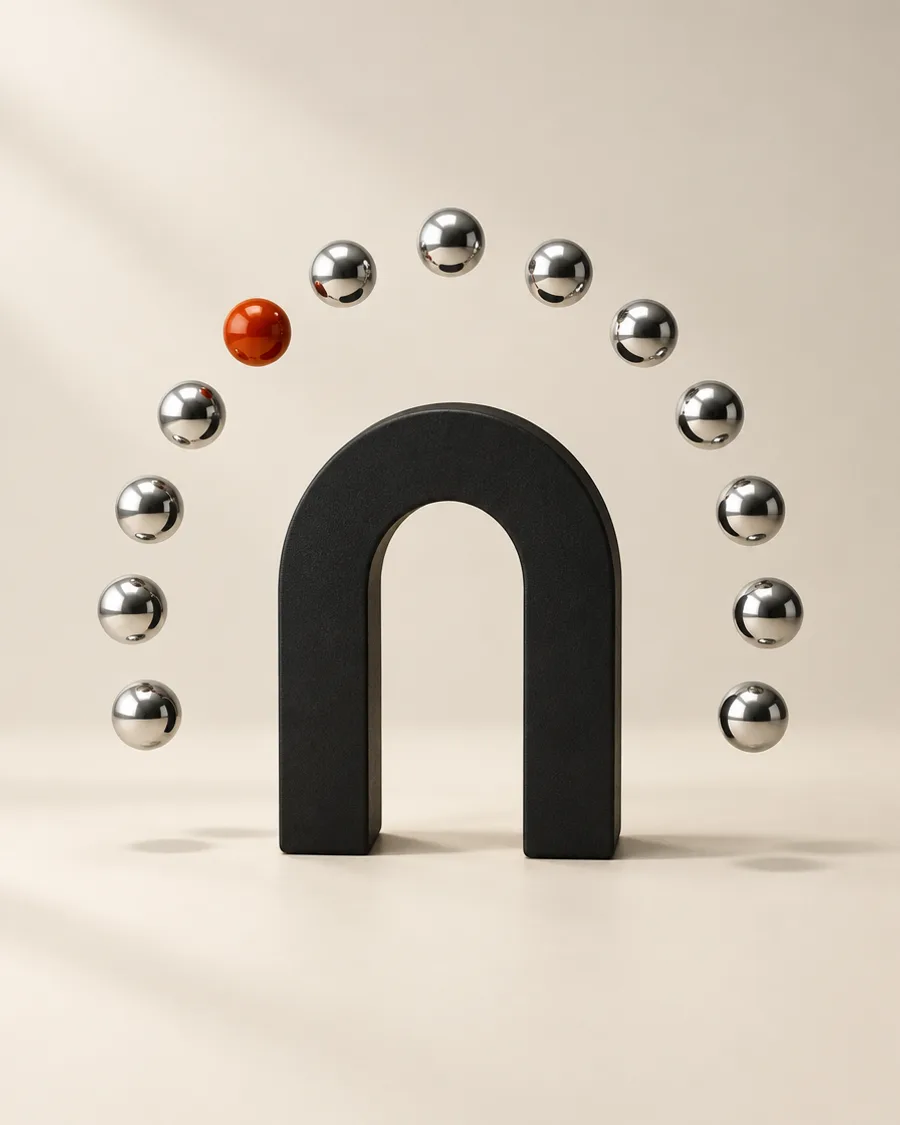
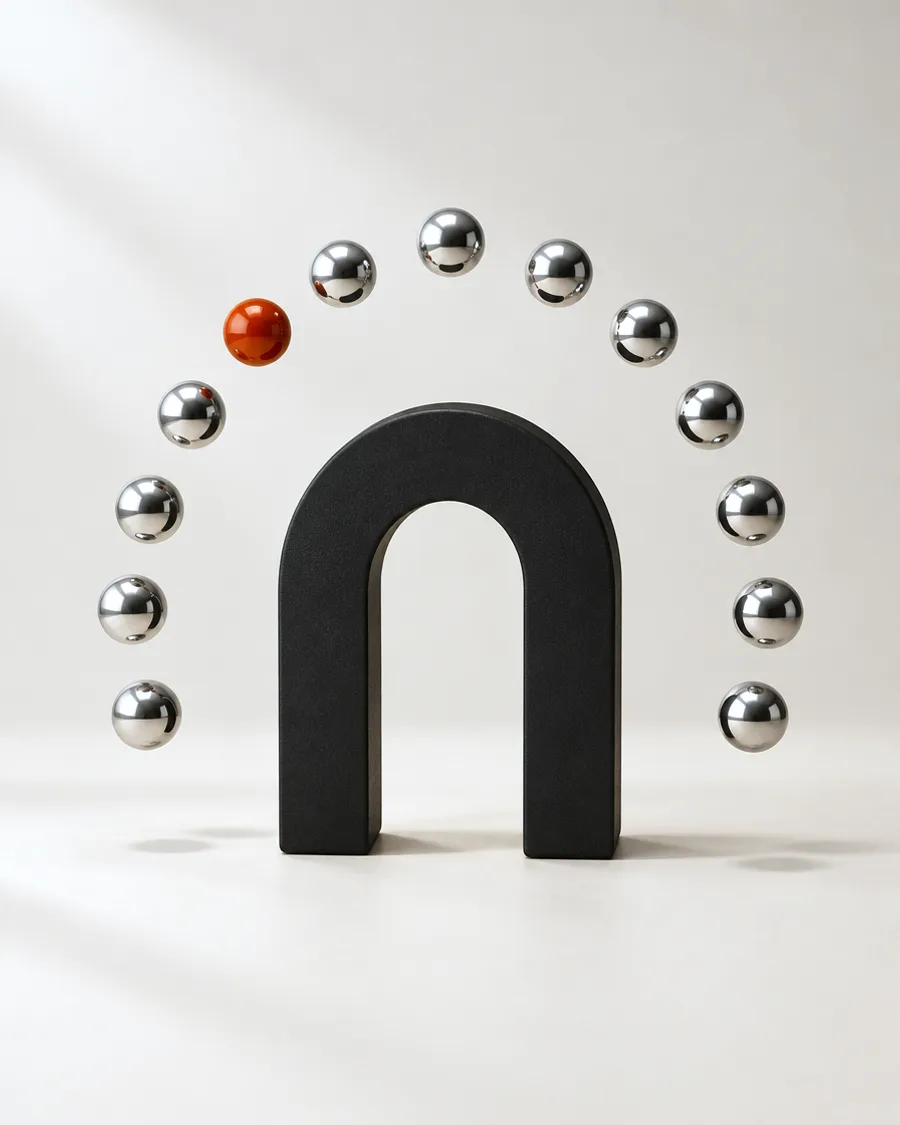
Recolor /b2b to a cool neutral palette, switch to a single grotesk
The warm cream base (#f2efe7) read as yellow rather than premium. Three
things were feeding it: the cream token itself, the grain overlay's
multiply blend, and the body's vermilion radial gradients. All three are
now overridden inside .page-b2b only — assets/elvora.css and the other
37 pages are untouched.

Palette: paper #f6f5f2, card #ffffff, ink #0d1117, muted #6a7280,
line #e5e4e0; dark sections move off the warm #14130f to a cool
#0d1117. Vermilion stays as the single accent, so the only warmth on
the page is deliberate.

Type drops from three families to one grotesk (Schibsted Grotesk),
headings at 600 with the reference's tight tracking. The wordmark keeps
Instrument Serif — it is the logotype and should match the rest of the
site. The italic accent becomes upright; colour alone carries it.

The four visuals were warm-cast too, so they were re-derived from the
originals with a per-channel correction that neutralises the backdrop
(R-B 13-26 down to 3-4, matching the new paper) and leaves the
vermilion ball intact. Regenerating them was not possible — the daily
image limit rejected 3 of 4 — but colour correction preserves the
compositions anyway.

Tabular figures are now limited to the sector count column; in display
headings they gave the period a full digit width ("1 . 500+").

The header logo now points at ./ instead of the main site, so it
returns to the top of this landing page rather than leaving it.

diff --git a/b2b/b2b.css b/b2b/b2b.css
@@ -9,6 +9,34 @@
    ============================================================ */
 
 .page-b2b {
+  /* ---------- Palet: soğuk nötr kâğıt ----------
+     Elvora'nın #f2efe7 kremi (R242 G239 B231) sarıya kaçıyordu; üstüne
+     grain'in multiply katmanı ve gövdedeki vermilion radial gradyanlar
+     binince sayfa geneli sarardı. Token'lar YALNIZ bu sayfada yeniden
+     tanımlanıyor — assets/elvora.css'e ve sitenin geri kalanına
+     dokunulmuyor. Vurgu vermilion olarak kalıyor: sıcaklık artık
+     zeminden değil, tek bir noktadan geliyor. */
+  --ink-base: #f6f5f2;
+  --ink-elevated: #ffffff;
+  --ink-floating: #ffffff;
+  --bone: #0d1117;
+  --bone-dim: #6a7280;
+  --bone-faint: #98a0ab;
+  --bone-hair: #e5e4e0;
+  --vermilion-wash: rgba(232, 68, 46, 0.09);
+
+  /* ---------- Tipografi: tek grotesk aile ----------
+     Instrument Serif + Archivo + IBM Plex Mono üçlüsü bu sayfada tek
+     bir grotesk'e iniyor. Wordmark (logotype) serif kalıyor — o marka
+     işareti, sitenin geri kalanıyla aynı görünmeli. */
+  --font-sans: 'Schibsted Grotesk', ui-sans-serif, system-ui, -apple-system, 'Helvetica Neue', Arial, sans-serif;
+  --font-display: var(--font-sans);
+  --font-mono: var(--font-sans);
+
+  /* Sıcak dokuları kapat */
+  --grain-opacity: 0;
+  --grid-line: rgba(13, 17, 23, 0.045);
+
   /* Referans container 1180px; Elvora'nın varsayılanı 1320px. */
   --measure: 1180px;
   /* Referansın köşe skalası (Elvora'nın 8px'lik --radius-card'ı
@@ -22,13 +50,43 @@
 
   background: var(--ink-base);
   background-image: none;
+  letter-spacing: -0.005em;
 }
 @media (min-width: 768px) {
   .page-b2b { --sec-pad: 128px; }
 }
 
+/* Koyu bölümler de soğuk siyaha döner (elvora.css'teki sıcak
+   #14130f/#1c1b17 yerine). Specificity elvora.css'teki .tone-dark'ı
+   geçiyor, o yüzden bu sayfadaki her koyu blok buradan besleniyor. */
+.page-b2b .tone-dark {
+  --ink-base: #0d1117;
+  --ink-elevated: #161b22;
+  --ink-floating: #1c222b;
+  --bone: #f6f5f2;
+  --bone-dim: rgba(246, 245, 242, 0.64);
+  --bone-faint: rgba(246, 245, 242, 0.42);
+  --bone-hair: rgba(246, 245, 242, 0.13);
+  --grain-opacity: 0;
+  --grid-line: rgba(246, 245, 242, 0.04);
+}
+
+/* Logotype: sayfanın grotesk'ine kapılmasın. */
+.page-b2b .wordmark {
+  font-family: 'Instrument Serif', 'Times New Roman', serif;
+  font-weight: 400;
+}
+
+/* Grotesk'te italik vurgu ucuz duruyor — vurgu artık yalnız renkle. */
+.page-b2b .accent-italic { font-style: normal; }
+
+/* Tabular rakam yalnız alt alta hizalanan sütunda işe yarıyor. Display
+   başlıklarında ("1.500+", "4. hafta") noktaya da tam rakam genişliği
+   verip araları açıyordu — oralarda oransal rakam kalıyor. */
+.ix-sectors__count { font-variant-numeric: tabular-nums; }
+
 /* Sayfa açık temalı: yükleme anında koyu zemin çakmasın. */
-html.b2b { background: #f2efe7; }
+html.b2b { background: #f6f5f2; }
 
 /* ---------- Bölüm kabukları ---------- */
 .ix-section {
@@ -72,9 +130,9 @@ html.b2b { background: #f2efe7; }
 .ix-h2 {
   margin-top: 20px;
   font-family: var(--font-display);
-  font-weight: 400;
+  font-weight: 600;
   font-size: clamp(1.9rem, 4vw, 2.85rem);
-  line-height: 1.06;
+  line-height: 1.08;
   letter-spacing: -0.032em;
   text-wrap: balance;
 }
@@ -169,7 +227,7 @@ html.b2b { background: #f2efe7; }
 .ix-frame--hero { aspect-ratio: 4 / 5; }
 .ix-frame--square { aspect-ratio: 1 / 1; }
 .ix-frame img { display: block; width: 100%; height: 100%; object-fit: cover; }
-.tone-dark .ix-frame { border-color: rgba(242, 239, 231, 0.1); background: #1b1914; }
+.tone-dark .ix-frame { border-color: rgba(246, 245, 242, 0.1); background: #161b22; }
 
 /* Hero çerçevesinin sol altından taşan küçük kart */
 .ix-float {
@@ -181,7 +239,7 @@ html.b2b { background: #f2efe7; }
   border: 1px solid var(--bone-hair);
   border-radius: var(--r-sm);
   background: var(--ink-elevated);
-  box-shadow: 0 18px 44px -24px rgba(20, 19, 15, 0.35);
+  box-shadow: 0 18px 44px -24px rgba(13, 17, 23, 0.32);
 }
 @media (min-width: 640px) { .ix-float { left: -32px; } }
 .ix-float__label {
@@ -196,6 +254,7 @@ html.b2b { background: #f2efe7; }
   margin-top: 6px;
   font-family: var(--font-display);
   font-size: 30px;
+  font-weight: 600;
   line-height: 1;
   letter-spacing: -0.035em;
 }
@@ -223,7 +282,7 @@ html.b2b { background: #f2efe7; }
 .ix-h1 {
   margin-top: 24px;
   font-family: var(--font-display);
-  font-weight: 400;
+  font-weight: 600;
   font-size: clamp(2.35rem, 5.2vw, 3.75rem);
   line-height: 1.04;
   letter-spacing: -0.04em;
@@ -262,8 +321,9 @@ html.b2b { background: #f2efe7; }
 .ix-herostats dt {
   font-family: var(--font-display);
   font-size: 22px;
+  font-weight: 600;
   line-height: 1;
-  letter-spacing: -0.03em;
+  letter-spacing: -0.035em;
 }
 .ix-herostats dd { font-size: 14px; color: var(--bone-dim); }
 
@@ -332,8 +392,9 @@ html.b2b { background: #f2efe7; }
 .ix-band dt {
   font-family: var(--font-display);
   font-size: clamp(2.5rem, 4.5vw, 3.25rem);
+  font-weight: 600;
   line-height: 1;
-  letter-spacing: -0.04em;
+  letter-spacing: -0.045em;
 }
 .ix-band dd { margin-top: 12px; font-size: 15px; line-height: 1.5; color: var(--bone-dim); }
 .ix-band__note {
@@ -437,6 +498,7 @@ html.b2b { background: #f2efe7; }
 .ix-metric dt {
   font-family: var(--font-display);
   font-size: 30px;
+  font-weight: 600;
   line-height: 1;
   letter-spacing: -0.04em;
 }
@@ -502,7 +564,7 @@ html.b2b { background: #f2efe7; }
   border-radius: var(--r-md);
   background: var(--ink-base);
 }
-.ix-plan--featured { border-color: #14130f; background: #14130f; }
+.ix-plan--featured { border-color: #0d1117; background: #0d1117; }
 @media (min-width: 1024px) {
   .ix-plan--featured { margin-top: -16px; padding-bottom: 40px; }
 }
@@ -529,7 +591,7 @@ html.b2b { background: #f2efe7; }
 .ix-plan__price strong {
   font-family: var(--font-display);
   font-size: 42px;
-  font-weight: 400;
+  font-weight: 600;
   line-height: 1;
   letter-spacing: -0.045em;
 }
@@ -604,9 +666,9 @@ html.b2b { background: #f2efe7; }
 }
 .ix-cta__title {
   font-family: var(--font-display);
-  font-weight: 400;
+  font-weight: 600;
   font-size: clamp(1.9rem, 4vw, 2.85rem);
-  line-height: 1.06;
+  line-height: 1.08;
   letter-spacing: -0.032em;
   text-wrap: balance;
 }
@@ -631,7 +693,7 @@ html.b2b { background: #f2efe7; }
   top: 0;
   z-index: 100;
   border-bottom: 1px solid var(--bone-hair);
-  background: rgba(242, 239, 231, 0.85);
+  background: rgba(246, 245, 242, 0.85);
   -webkit-backdrop-filter: blur(12px) saturate(140%);
   backdrop-filter: blur(12px) saturate(140%);
 }

diff --git a/b2b/index.html b/b2b/index.html
@@ -2,7 +2,7 @@
 <html lang="tr" class="b2b">
 <head>
 <meta charset="utf-8">
-<style>html{background:#f2efe7}</style>
+<style>html{background:#f6f5f2}</style>
 <meta name="viewport" content="width=device-width, initial-scale=1">
 <title>B2B Satış Görüşmeleri | Elvora Global</title>
 <meta name="description" content="Alıcı listenizi çıkarır, e-posta ve LinkedIn erişimini sizin adınıza yürütür, gelen yanıtları karşılarız. Ekibinize yeni kişi almadan takviminize randevu düşer.">
@@ -21,7 +21,8 @@
 <meta name="twitter:card" content="summary_large_image">
 <link rel="preconnect" href="https://fonts.googleapis.com">
 <link rel="preconnect" href="https://fonts.gstatic.com" crossorigin>
-<link href="https://fonts.googleapis.com/css2?family=Archivo:wght@400;500;600&family=IBM+Plex+Mono:wght@400;500&family=Instrument+Serif:ital@0;1&display=swap" rel="stylesheet">
+<!-- Sayfa tipografisi tek grotesk; Instrument Serif yalnız wordmark için. -->
+<link href="https://fonts.googleapis.com/css2?family=Instrument+Serif&family=Schibsted+Grotesk:wght@400;500;600;700&display=swap" rel="stylesheet">
 <link rel="stylesheet" href="../assets/elvora.css">
 <link rel="stylesheet" href="./b2b.css">
 <script type="application/ld+json">{"@context":"https://schema.org","@type":"Service","name":"Elvora B2B Satış Görüşmeleri","provider":{"@type":"Organization","name":"Elvora Global","url":"https://elvoraglobal.com/"},"areaServed":"Türkiye","audience":{"@type":"BusinessAudience","audienceType":"B2B satış yapan üretici ve teknoloji şirketleri"},"description":"Hedef alıcı listesi kurulumu, e-posta ve LinkedIn erişimi, yanıt yönetimi ve satış görüşmesi planlama."}</script>
@@ -32,7 +33,9 @@
 <!-- ============ HEADER ============ -->
 <header class="ix-header">
   <div class="shell ix-header__inner">
-    <a class="wordmark" href="../index.html" aria-label="Elvora Global — ana sayfa">Elvora<span class="wordmark__dot">.</span></a>
+    <!-- Bu standalone bir landing page: logo ana siteye değil, sayfanın
+         kendi başına döner. -->
+    <a class="wordmark" href="./" aria-label="Elvora Global B2B — sayfa başı">Elvora<span class="wordmark__dot">.</span></a>
     <nav class="ix-nav" aria-label="Sayfa menüsü">
       <a href="#hizmetler">Nasıl çalışır</a>
       <a href="#surec">Süreç</a>
